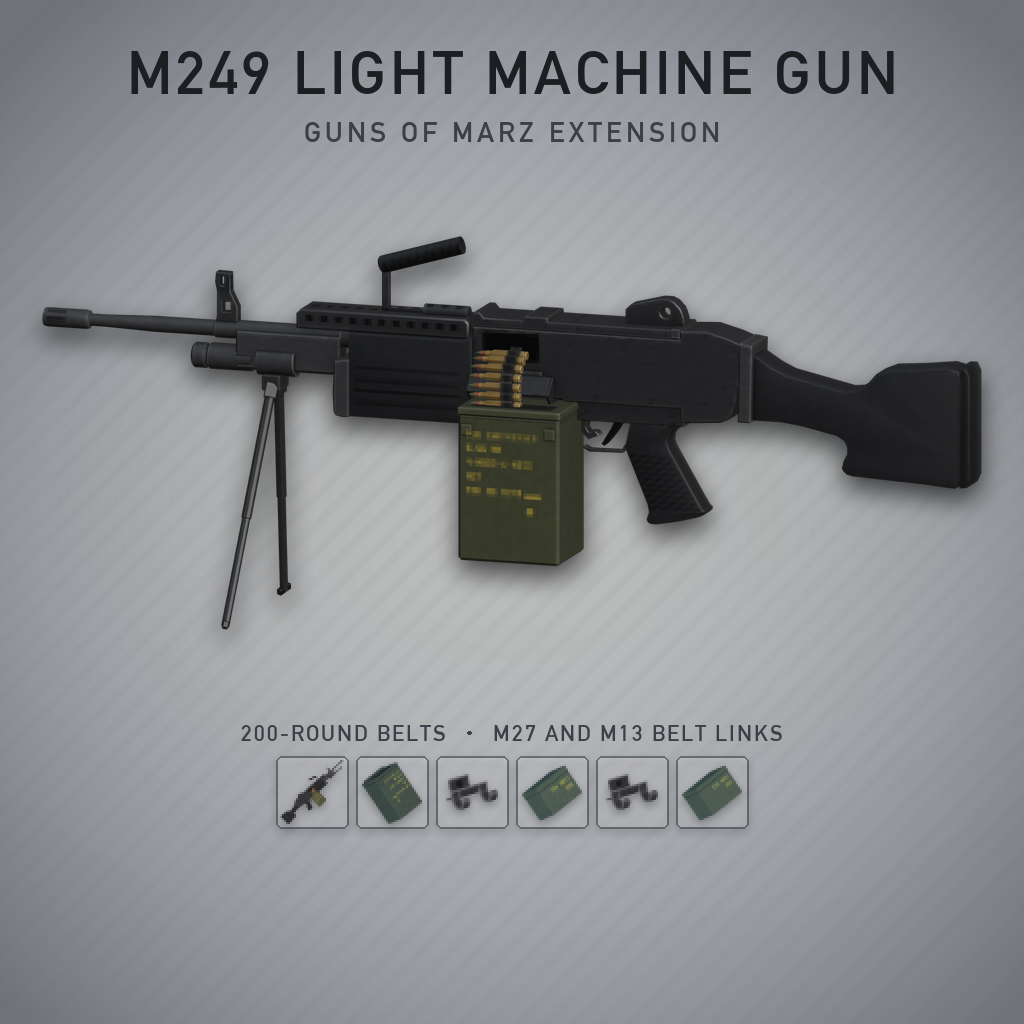
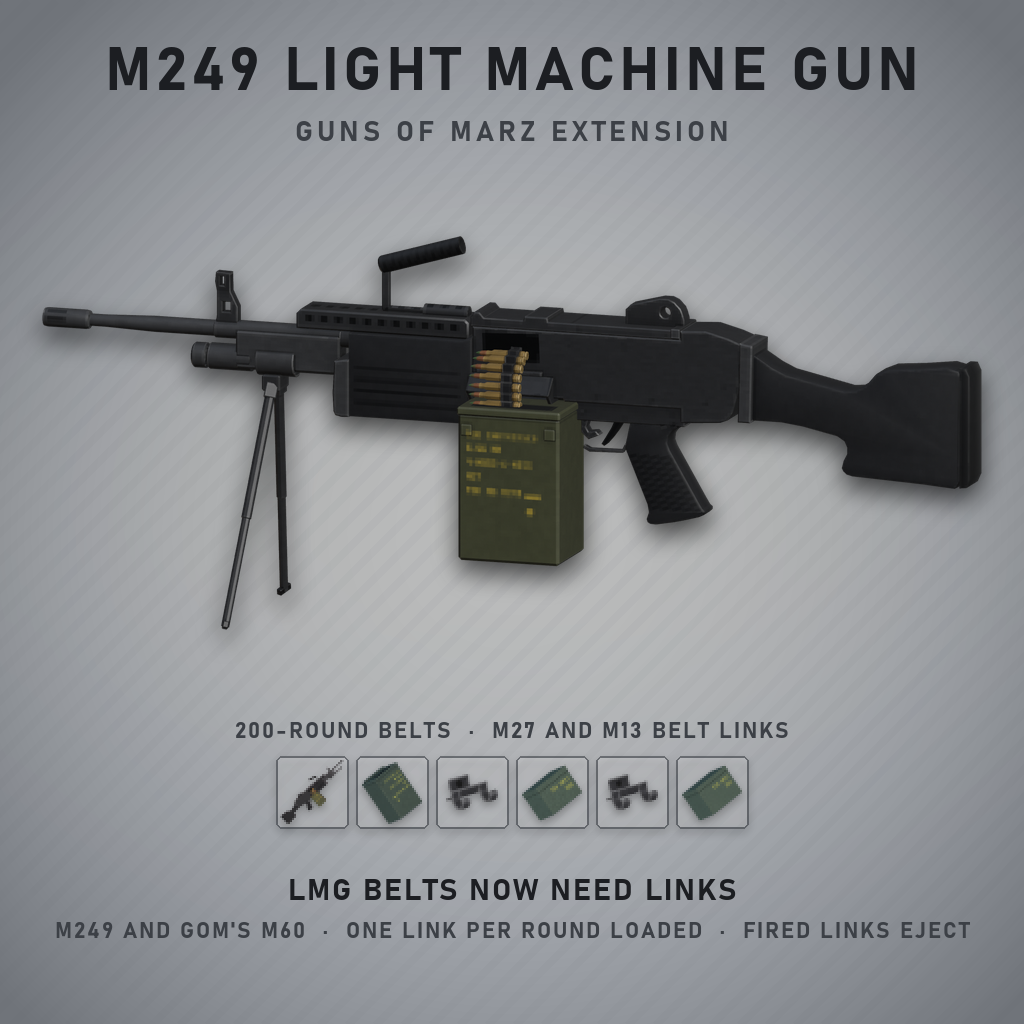
Update preview9 with LMG belt link requirements and modify workshop art script for clarity

diff --git a/scripts/make_workshop_art.py b/scripts/make_workshop_art.py
@@ -507,6 +507,12 @@ def preview9(path, W=1024):
     main = lambda n: os.path.join(MAIN, "item_GunsOfTien_%s.png" % n)
     slot_row(page, [main("M249"), main("556x45Box200_M249"), main("M27_Link"), main("LinkBox_M27"),
                     main("M13_Link"), main("LinkBox_M13")], 256, 360, "200-ROUND BELTS  ·  M27 AND M13 BELT LINKS")
+    # the change existing players must know about (user, 2026-10-22): belt boxes now take links
+    page.alpha_composite(text_layer(size, (W // 2, u(438)), "LMG BELTS NOW NEED LINKS", font(BOLD, u(15), b"Bold"),
+                                    (28, 30, 34, 255), anchor="ma", spacing=u(1)))
+    page.alpha_composite(text_layer(size, (W // 2, u(460)),
+                                    "M249 AND GOM'S M60  ·  ONE LINK PER ROUND LOADED  ·  FIRED LINKS EJECT",
+                                    font(BOLD, u(11), b"Bold"), (60, 64, 70, 255), anchor="ma", spacing=u(1)))
     save_under(page.convert("RGB"), path)
 
 

diff --git a/CLAUDE.md b/CLAUDE.md
@@ -232,7 +232,8 @@ feathers and eggs; a duplicate was built into Zomboid Fixes by mistake and remov
   removed (user, 2026-10-22). Added on the Steam page by hand.
   preview9 (2026-10-22) is the M249 and belt links: render_ad_guns.py `m249` (body, closed cover, deployed bipod,
   box and belt, seen from its left after the mirror), title "M249 LIGHT MACHINE GUN", then one slot row (the gun,
-  its box, the M27 and M13 links and their boxes). Not yet on the Steam page.
+  its box, the M27 and M13 links and their boxes), then two lines at the bottom: "LMG BELTS NOW NEED LINKS" and what
+  that means (M249 and GoM's M60, one link per round loaded, fired links eject; user 2026-10-22). Not yet on the Steam page.
 - Generators (run with python3 from the repo root; never hand-edit their outputs): `scripts/gen_scripts.py` (main mod
   items / models / recipes / names), `scripts/sound_model.py` (→ SoundTable.lua), `scripts/gen_handling_tooltips.py`
   (→ HandlingTooltips.lua: GoM's stock / bipod / selector / part / gun line fixes), `scripts/gen_round_tooltips.py`
